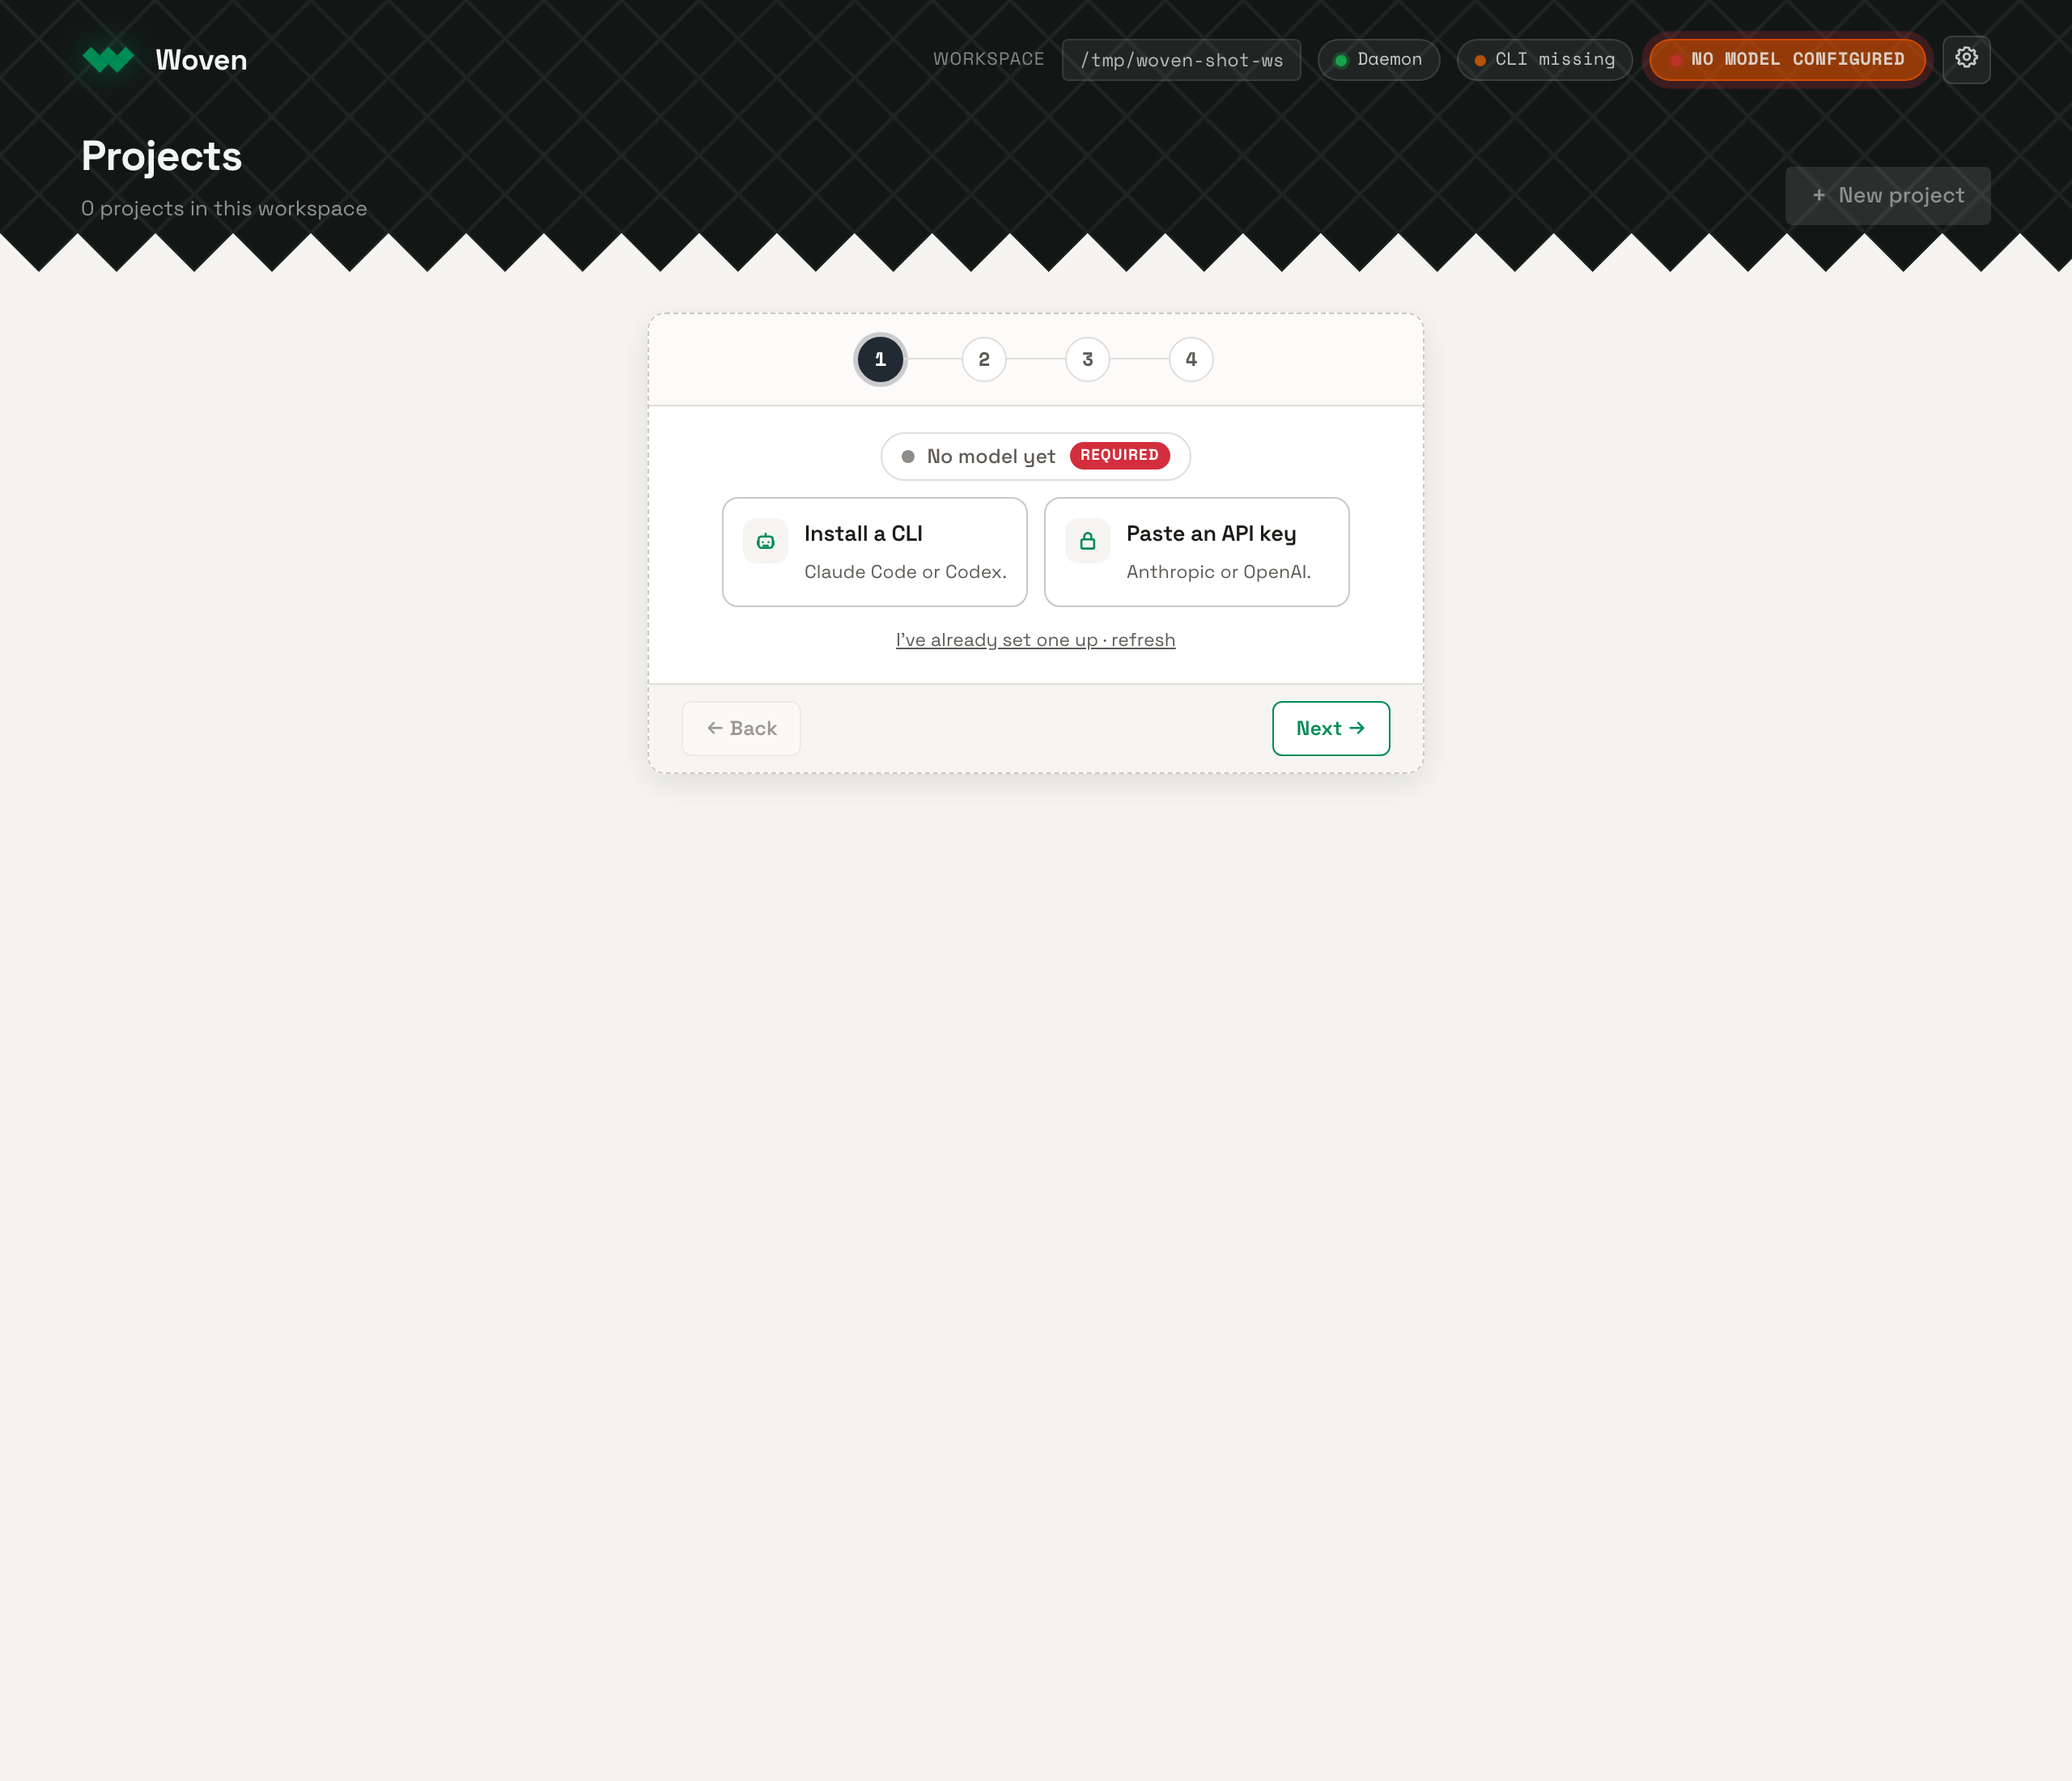
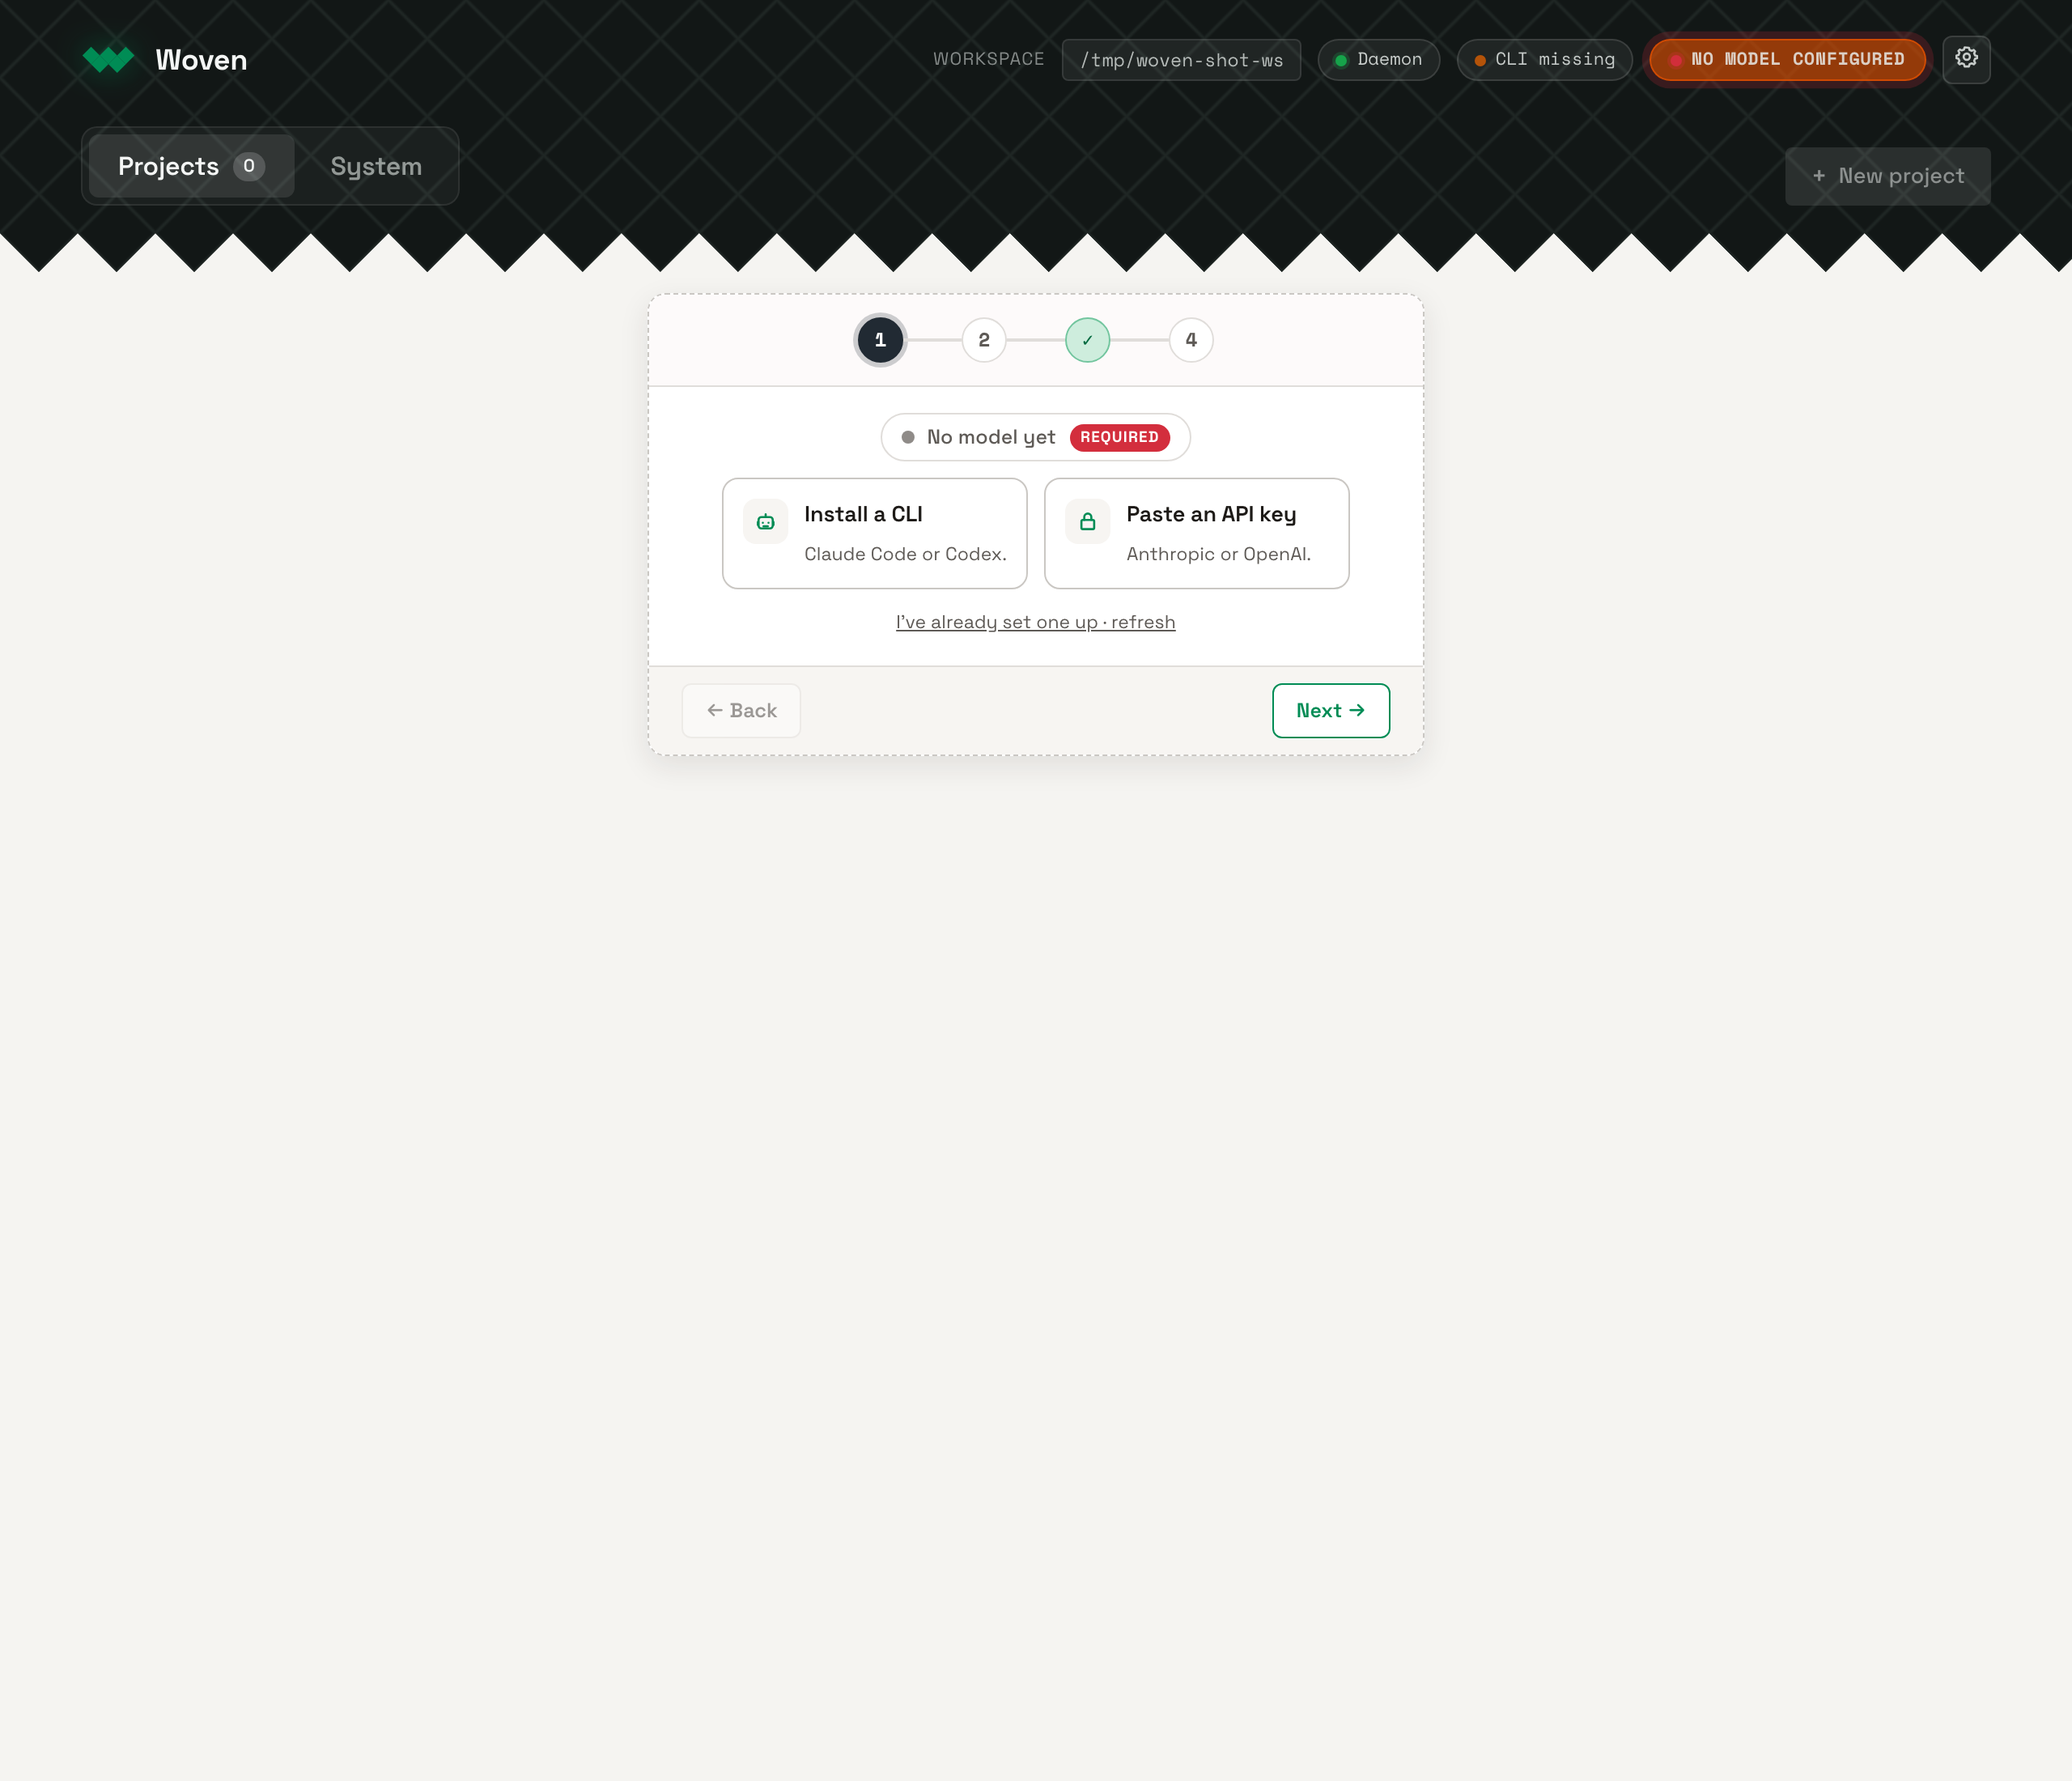
README: retake screenshots for Projects/System tab landing · drop scope wizard step
The new-project flow is now a single-field modal (no scope picker, no
multi-step wizard). Updated 01-08 to show the new Projects/System tab
header, dropped 06-wizard-scope.png, and rewrote step 7 to match.

diff --git a/README.md b/README.md
@@ -151,36 +151,15 @@ Optional packages (for `particle-gl`, `3d`, etc.) can wait. Install them from th
 
 ## 7. Create your first project
 
-Once a model is configured, the top-right warning chip disappears, the daemon + CLI chips both go green, and the **+ New project** button lights up:
+Once a model is configured, the top-right warning chip disappears, the daemon + CLI chips both go green, and the **+ New project** button lights up. The header now carries two tabs — **Projects** (your gallery) and **System** (a bundled reference for the planners, skills, subagents, and node kinds the editor ships with) — reachable from anywhere on the landing.
 
 ![Projects landing · model configured, + New project enabled](docs/screenshots/04-projects-landing.png)
 
-Click **+ New project** (or **+ Create your first project** in the empty state). A 3-step pop-up wizard opens.
+Click **+ New project** (or **+ Create your first project** in the empty state). A single-field modal opens:
 
-### Step 1 of 3 · Name your project
+![New project modal · name only](docs/screenshots/05-new-project-wizard.png)
 
-Type a folder-safe ID (alphanumeric + `.` `_` `-`). The display name auto-fills to match. Change it if you want a prettier label in the gallery.
-
-![New project wizard · step 1 · name](docs/screenshots/05-new-project-wizard.png)
-
-Click **Next →**.
-
-### Step 2 of 3 · Pick a scope
-
-This is where you tell the agent how much help you want for this project. For a first run, leave **Blank** selected (the default, already highlighted in green) so you land on a clean canvas with no automation.
-
-![New project wizard · step 2 · scope = Blank](docs/screenshots/06-wizard-scope.png)
-
-| Scope         | What happens after **Create**                                                              |
-| ------------- | ------------------------------------------------------------------------------------------ |
-| **Blank**     | Empty project, no automation, fresh canvas (recommended for your first run).                |
-| Quick designs | The agent brainstorms 3 visual directions and you pick one.                                  |
-| Design system | The agent generates a full design system from your brand brief.                              |
-| PRD only      | The agent writes a structured PRD from your intent, no visuals.                              |
-| Full guided   | End-to-end: PRD → DS → 9 design mockups → final prototype + design brief.                    |
-| Custom        | Pick stages individually + tell the agent what you already have.                            |
-
-Click **Next →** then **Create & open** on the review step.
+Type a folder-safe id (alphanumeric + `.` `_` `-`) and click **+ Create**. That's it — no scope picker, no multi-step wizard. The earlier "Blank / Quick designs / Design system / PRD only / Full guided / Custom" branching was removed; every fresh project lands on a clean workflow canvas and you tell the agent what you want from chat. Need one of the old guided runs? Just ask the agent in plain English on the next screen ("brainstorm three design directions", "write a PRD first", "do the full guided flow", …) and the orchestrator skill picks the right stages.
 
 ---
 
